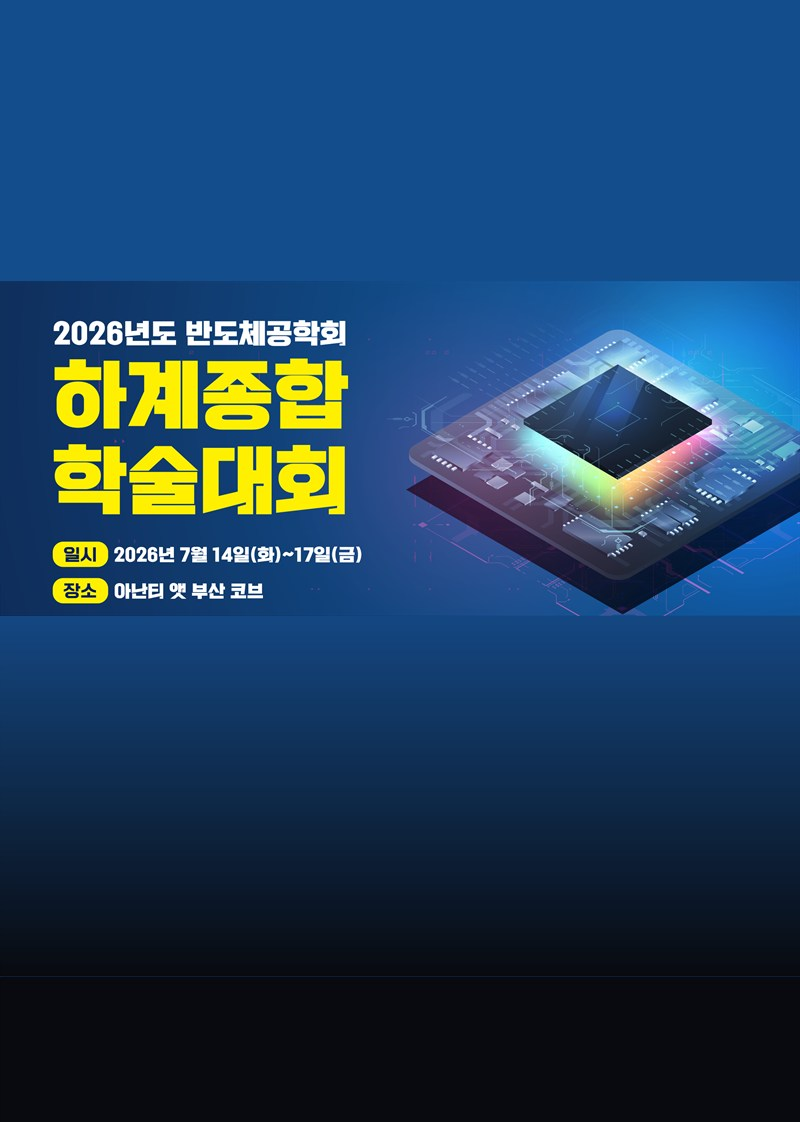
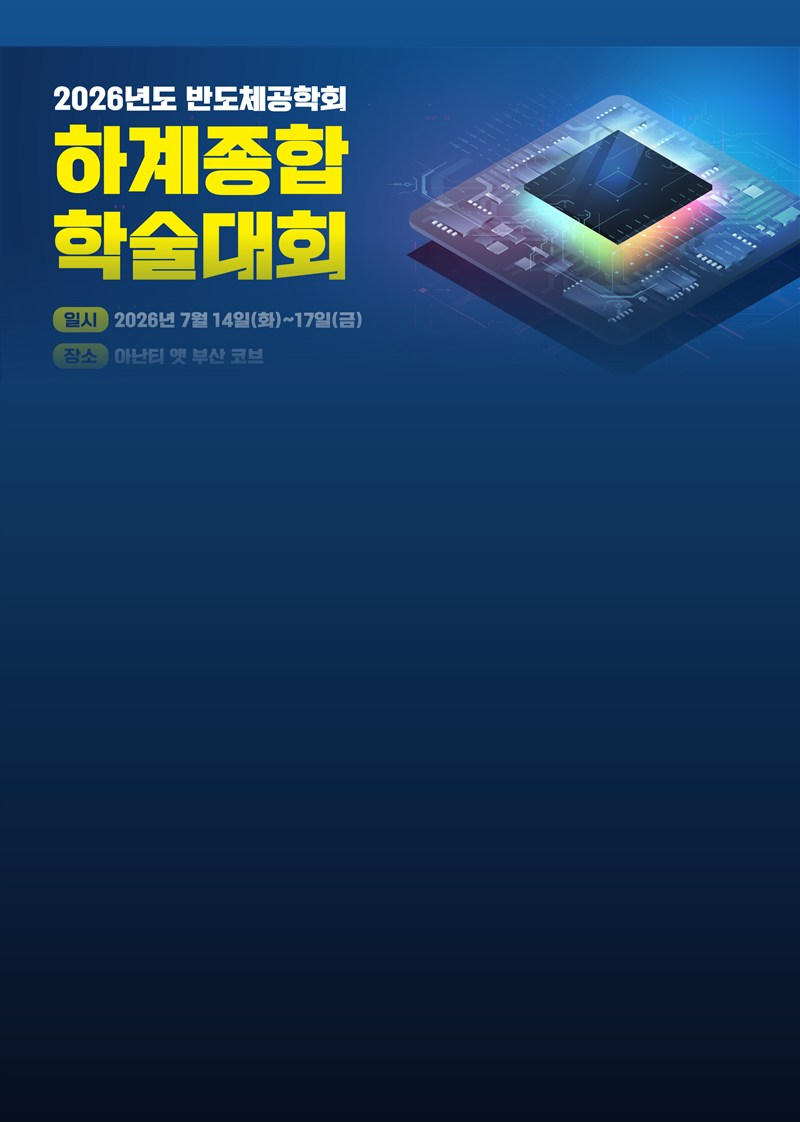
feat(events): 포스터·팝업 어둠 처리를 바탕색 보존형으로 + 카드 아이콘 이동
- SEDEX/ISE/KPCA 포스터 재합성: 검정 급전환 제거 → 바탕색(보라/파랑/청록)을
  유지한 채 하단으로 자연스럽게 어두워지는 그라데이션. 세로줄·파란박스 티 제거.
- 팝업 스크림: 불투명 검정(.97) → 반투명(.78)으로 완화해 바탕색이 비치며
  어두운 톤으로 이어지게(darkInfo=ISE·KPCA·SEDEX). ISPSA는 기존 옅은 그라데이션 유지.
- posterBg를 각 어두운 바탕색으로.
- 카드 우상단 바로가기 아이콘 → 좌상단 상태칩 옆으로 이동.

diff --git a/src/pages/Events/index.tsx b/src/pages/Events/index.tsx
@@ -157,8 +157,8 @@ function EventCard({ e, onOpen }: { e: FabEvent; onOpen: () => void }) {
       <Box sx={{ position: 'relative', aspectRatio: '800 / 1122' }}>
         <PosterBg e={e} />
 
-        {/* 좌상단: 분류칩(학술/교육/전시) → 상태칩 */}
-        <Box sx={{ position: 'absolute', top: 11, left: 11, right: 44, display: 'flex', alignItems: 'flex-start', gap: '6px', flexWrap: 'wrap' }}>
+        {/* 좌상단: 분류칩(학술/교육/전시) → 상태칩 → 바로가기 아이콘 */}
+        <Box sx={{ position: 'absolute', top: 11, left: 11, right: 11, display: 'flex', alignItems: 'center', gap: '6px', flexWrap: 'wrap' }}>
           {/* 분류칩 — 학술=블루 / 교육=그린 / 전시=퍼플 */}
           <Box
             component="span"
@@ -187,20 +187,19 @@ function EventCard({ e, onOpen }: { e: FabEvent; onOpen: () => void }) {
             />
             {st.label}
           </Box>
+          {/* 바로가기 아이콘 — 상태칩 옆 */}
+          <IconButton
+            component="a"
+            href={e.link}
+            target="_blank"
+            rel="noopener noreferrer"
+            aria-label="행사 사이트"
+            onClick={(ev) => ev.stopPropagation()}
+            sx={{ width: 27, height: 27, color: '#fff', bgcolor: 'rgba(255,255,255,.16)', backdropFilter: 'blur(4px)', '&:hover': { bgcolor: 'rgba(255,255,255,.3)' } }}
+          >
+            <OpenInNewIcon sx={{ fontSize: 15 }} />
+          </IconButton>
         </Box>
-
-        {/* 링크 아이콘 */}
-        <IconButton
-          component="a"
-          href={e.link}
-          target="_blank"
-          rel="noopener noreferrer"
-          aria-label="행사 사이트"
-          onClick={(ev) => ev.stopPropagation()}
-          sx={{ position: 'absolute', top: 7, right: 7, width: 30, height: 30, color: '#fff', bgcolor: 'rgba(255,255,255,.14)', backdropFilter: 'blur(4px)', '&:hover': { bgcolor: 'rgba(255,255,255,.26)' } }}
-        >
-          <OpenInNewIcon sx={{ fontSize: 16 }} />
-        </IconButton>
 
         {/* 하단 오버레이: 제목 + 일시 */}
         <Box sx={{ position: 'absolute', left: 0, right: 0, bottom: 0, p: '13px 13px 14px' }}>
@@ -288,8 +287,8 @@ function EventDetail({ e, onClose }: { e: FabEvent; onClose: () => void }) {
           <CloseIcon sx={{ fontSize: 18 }} />
         </IconButton>
         {e.darkInfo ? (
-          /* 글자 많은 포스터(안내문·하단 텍스트): 정보 높이만큼 강한 검정 스크림(상단만 페이드) */
-          <Box sx={{ position: 'absolute', left: 0, right: 0, bottom: 0, pt: '72px', px: '20px', pb: '20px', lineHeight: 'normal', background: 'linear-gradient(to top, rgba(8,10,15,.97) 0%, rgba(8,10,15,.97) calc(100% - 72px), rgba(8,10,15,0) 100%)' }}>
+          /* 바탕색 포스터: 정보 높이만큼 반투명 검정 스크림(.78) — 바탕색이 비쳐 어두운 톤으로 이어짐 */
+          <Box sx={{ position: 'absolute', left: 0, right: 0, bottom: 0, pt: '76px', px: '20px', pb: '20px', lineHeight: 'normal', background: 'linear-gradient(to top, rgba(8,10,15,.80) 0%, rgba(8,10,15,.78) calc(100% - 76px), rgba(8,10,15,0) 100%)' }}>
             <DetailInfo e={e} st={st} light />
           </Box>
         ) : (

diff --git a/src/constants/events.ts b/src/constants/events.ts
@@ -119,7 +119,8 @@ export const FAB_EVENTS: FabEvent[] = [
     organizer: '반도체공학회',
     link: 'https://event.theise.org/conference/',
     poster: 'events/ises-summer2026.jpg',
-    posterBg: 'rgb(8,10,15)',
+    posterBg: 'rgb(7,16,33)',
+    darkInfo: true,
     accent: 'blue',
     summary: [
       { label: '논문마감', value: '2026.06.08 (결과통보 6.15)' },
@@ -172,7 +173,7 @@ export const FAB_EVENTS: FabEvent[] = [
     organizer: '한국PCB반도체패키징산업협회',
     link: 'https://www.kpcashow.com/kor/aboutus/about.asp',
     poster: 'events/kpca2026.jpg',
-    posterBg: 'rgb(8,10,15)',
+    posterBg: 'rgb(6,30,38)',
     darkInfo: true,
     accent: 'amber',
     summary: [
@@ -191,7 +192,8 @@ export const FAB_EVENTS: FabEvent[] = [
     organizer: '한국반도체산업협회',
     link: 'https://www.sedex.org/public_html/index.asp',
     poster: 'events/sedex2026.jpg',
-    posterBg: 'rgb(8,10,15)',
+    posterBg: 'rgb(15,13,30)',
+    darkInfo: true,
     accent: 'red',
     summary: [
       { label: '입장', value: '사전등록(~10/12) 무료 · 현장등록 20,000원' },